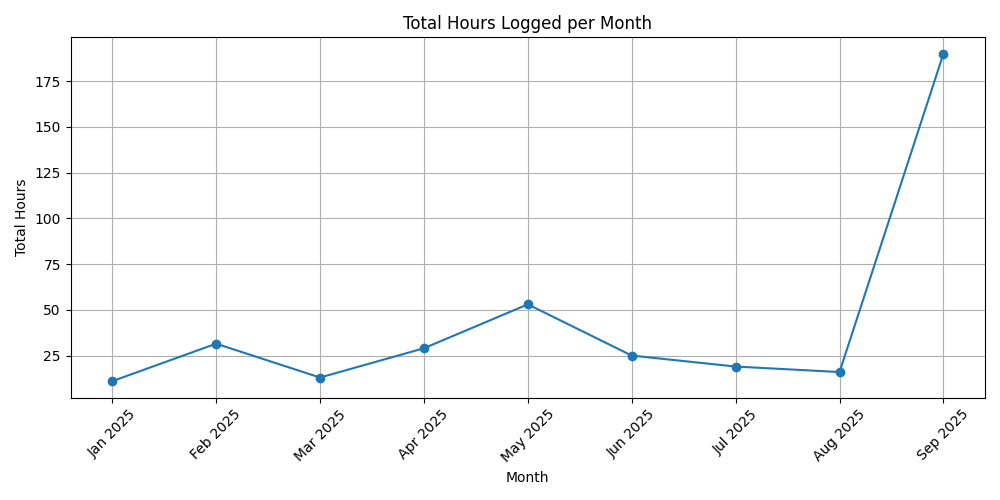
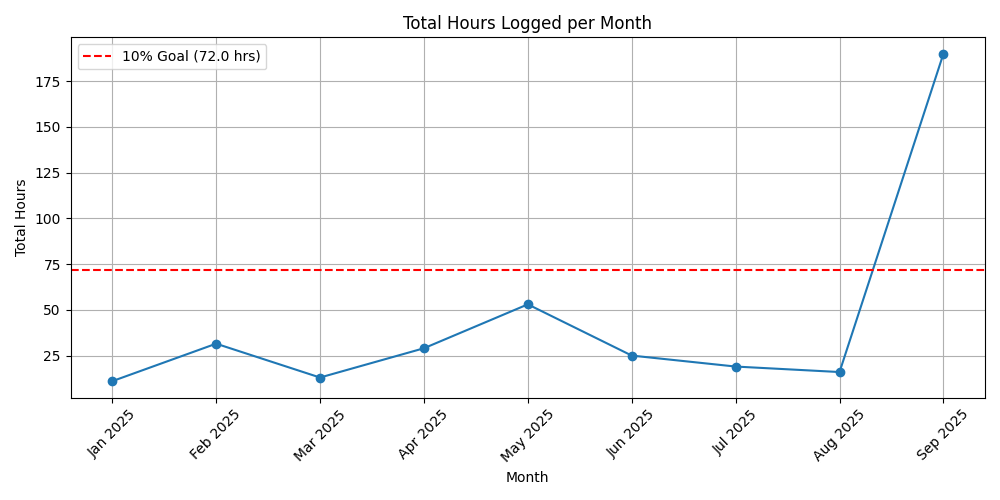
Added custom goal percentage
A new feature has been added to add a percentage usage goal to the total weekly and monthly graphs. If set to None, no line will be drawn.

Changed region(s): [[0.124, 0.09, 0.279, 0.15]]

diff --git a/prayer_analytics_lib.py b/prayer_analytics_lib.py
@@ -118,7 +118,7 @@ def calculate_dashboard_metrics(df, df_monthly_total):
     # --- RECENTLY ---
     today_ts = pd.Timestamp.now().normalize()
     
-    # 7-Day Periods (No Change)
+    # 7-Day Periods
     last_7_days_start = today_ts - timedelta(days=7)
     prev_7_days_start = today_ts - timedelta(days=14)
     
@@ -134,7 +134,7 @@ def calculate_dashboard_metrics(df, df_monthly_total):
     pct_last_7 = (hours_last_7 / total_possible_hours_7) * 100 if total_possible_hours_7 > 0 else 0
     pct_prev_7 = (hours_prev_7 / total_possible_hours_7) * 100 if total_possible_hours_7 > 0 else 0
 
-    # Monthly Periods: Now changed to 28-Day Periods (4 Weeks)
+    # 28-Day Periods (4 Weeks)
     last_28_days_start = today_ts - timedelta(days=28)
     prev_28_days_start = today_ts - timedelta(days=56)
     
@@ -362,8 +362,8 @@ def plot_binary_hourly_distribution(df, outdir):
     plt.savefig(os.path.join(outdir, "hourly_users.png"))
     plt.close()
 
-def plot_weekly_total_hours(df, outdir):
-    """Creates a line graph of the weekly total hours."""
+def plot_weekly_total_hours(df, outdir, goal_percentage):
+    """Creates a line graph of the weekly total hours with a dynamic goal line (or no line if goal_percentage is None)."""
     df_weekly_total = df.groupby(pd.Grouper(key="start_time", freq="W"))["duration"].sum().reset_index()
     
     plt.figure(figsize=(10, 5))
@@ -374,6 +374,15 @@ def plot_weekly_total_hours(df, outdir):
     plt.grid(True)
     
     ax = plt.gca()
+
+    # --- Conditional Goal Line Logic ---
+    if goal_percentage is not None and isinstance(goal_percentage, (int, float)):
+        # Calculate goal line: 7 days * 24 hours = 168 total hours
+        weekly_goal_hours = (7 * 24) * (goal_percentage / 100)
+        # Add a red dashed horizontal line at the goal percentage mark
+        ax.axhline(y=weekly_goal_hours, color='red', linestyle='--', label=f'{goal_percentage}% Goal ({weekly_goal_hours:.1f} hrs)')
+        ax.legend()
+    
     # Set the x-axis to show a label for every second week to improve readability
     ax.xaxis.set_major_locator(mdates.WeekdayLocator(interval=2))
     ax.xaxis.set_major_formatter(mdates.DateFormatter('%b %d, %Y'))
@@ -383,8 +392,8 @@ def plot_weekly_total_hours(df, outdir):
     plt.savefig(os.path.join(outdir, "weekly_total_hours.png"))
     plt.close()
 
-def plot_monthly_total_hours(df_monthly_total, outdir):
-    """Creates a line graph of the monthly total hours."""
+def plot_monthly_total_hours(df_monthly_total, outdir, goal_percentage):
+    """Creates a line graph of the monthly total hours with a dynamic goal line (or no line if goal_percentage is None)."""
     df_monthly_total = df_monthly_total.reset_index()
     
     # Corrected: Use 'start_time' column for formatting the month
@@ -397,6 +406,17 @@ def plot_monthly_total_hours(df_monthly_total, outdir):
     plt.ylabel("Total Hours")
     plt.xticks(rotation=45)
     plt.grid(True)
+    
+    ax = plt.gca()
+
+    # --- Conditional Goal Line Logic ---
+    if goal_percentage is not None and isinstance(goal_percentage, (int, float)):
+        # Calculate goal line: Using standard 30 days * 24 hours = 720 total hours
+        monthly_goal_hours = (30 * 24) * (goal_percentage / 100)
+        # Add a red dashed horizontal line at the goal percentage mark
+        ax.axhline(y=monthly_goal_hours, color='red', linestyle='--', label=f'{goal_percentage}% Goal ({monthly_goal_hours:.1f} hrs)')
+        ax.legend()
+
     plt.tight_layout()
     plt.savefig(os.path.join(outdir, "monthly_total_hours.png"))
     plt.close()
@@ -421,12 +441,13 @@ def plot_avg_hours_distribution(user_summary, outdir):
     plt.savefig(os.path.join(outdir, "avg_hours_distribution.png"))
     plt.close()
 
-def run_analysis(input_files, outdir, start_filter=None, end_filter=None):
+def run_analysis(input_files, outdir, start_filter=None, end_filter=None, goal_percentage=10):
     """
     Orchestrates the entire analysis process.
     
     :param start_filter: Optional. A string representing the start date (e.g., "2024-01-01") or a year (e.g., "2024").
     :param end_filter: Optional. A string representing the end date (e.g., "2024-12-31") or a year (e.g., "2024").
+    :param goal_percentage: The target percentage for weekly/monthly hours for goal lines on charts. Pass None to disable the line.
     """
     
     # ----------------------------------------------------
@@ -553,8 +574,10 @@ def run_analysis(input_files, outdir, start_filter=None, end_filter=None):
     export_weekly_likelihood_metrics(df, outdir)
     plot_hourly_distribution(df, outdir)
     plot_binary_hourly_distribution(df, outdir)
-    plot_weekly_total_hours(df, outdir)
-    plot_monthly_total_hours(df_monthly_total, outdir)
+    
+    # Call plotting functions with goal_percentage which can now be None
+    plot_weekly_total_hours(df, outdir, goal_percentage)
+    plot_monthly_total_hours(df_monthly_total, outdir, goal_percentage)
     plot_avg_hours_distribution(user_summary, outdir)
     
     # print(f"All dashboard graphs and files have been saved to the '{outdir}' folder.")

diff --git a/run_analytics_gwop.py b/run_analytics_gwop.py
@@ -1,4 +1,13 @@
 import prayer_analytics_lib as pal
+import sys
+
+# Ensure pandas is available before running
+try:
+    import pandas as pd
+except ImportError:
+    print("Error: pandas and/or matplotlib libraries not found.")
+    print("Please install them using: pip install pandas matplotlib")
+    sys.exit(1)
 
 # ----------------------------------------------------------------------
 # ⚠ EDIT THESE PARAMETERS TO SET THE DATE RANGE FOR YOUR ANALYSIS ⚠
@@ -16,28 +25,46 @@ START_FILTER = None
 # - To filter by a specific date: "2024-12-31"
 END_FILTER = None
 
+# The percentage goal for the hours filled (e.g., 10 for 10%)
+# Setting this to None will result in no goal line being drawn on the charts.
+GOAL_PERCENTAGE = 10
+
 # ----------------------------------------------------------------------
 # DO NOT EDIT BELOW THIS LINE
 # ----------------------------------------------------------------------
 
 # The file(s) containing historical booking data.
+# E.g., ["initial.csv", "current.csv"]
 INPUT_FILES = ["initial.csv", "current.csv", "gwop.csv"]
 
 # The base name for the output directory.
-# A date range suffix will be automatically appended to the folder name
-# to prevent overwriting (e.g., "analysis_20240101_to_20241231").
+# A date range suffix will be automatically appended (e.g., "analysis_20240101_to_20241231").
 OUTPUT_DIR = "gwop_out"
 
 if __name__ == "__main__":
+    print("--- Prayer Analysis Script ---")
+    
+    if START_FILTER or END_FILTER:
+        start_display = START_FILTER if START_FILTER else "Earliest Data"
+        end_display = END_FILTER if END_FILTER else "Today"
+        print(f"Filter set: {start_display} to {end_display}")
+    else:
+        print("Filter set: Using all available data.")
+        
+    if GOAL_PERCENTAGE is None:
+        print("Goal Percentage set to: None (No goal line will be drawn)")
+    else:
+        print(f"Goal Percentage set to: {GOAL_PERCENTAGE}%")
+        
     try:
-        print(f"Starting analysis with Input Files: {INPUT_FILES}")
         pal.run_analysis(
             input_files=INPUT_FILES, 
             outdir=OUTPUT_DIR, 
             start_filter=START_FILTER, 
-            end_filter=END_FILTER
+            end_filter=END_FILTER,
+            goal_percentage=GOAL_PERCENTAGE
         )
-        print("\nAnalysis complete. Check the output directory for results.")
+        print("\n✅ Analysis complete. Check the output directory for results.")
     except Exception as e:
-        print(f"\n--- FATAL ERROR --- \nAn error occurred during analysis: {e}")
+        print(f"\n--- ❌ FATAL ERROR --- \nAn error occurred during analysis: {e}")
         print("Please check your input files and date filters in run_analytics.py.")

diff --git a/run_analytics.py b/run_analytics.py
@@ -1,4 +1,13 @@
 import prayer_analytics_lib as pal
+import sys
+
+# Ensure pandas is available before running
+try:
+    import pandas as pd
+except ImportError:
+    print("Error: pandas and/or matplotlib libraries not found.")
+    print("Please install them using: pip install pandas matplotlib")
+    sys.exit(1)
 
 # ----------------------------------------------------------------------
 # ⚠ EDIT THESE PARAMETERS TO SET THE DATE RANGE FOR YOUR ANALYSIS ⚠
@@ -16,28 +25,46 @@ START_FILTER = None
 # - To filter by a specific date: "2024-12-31"
 END_FILTER = None
 
+# The percentage goal for the hours filled (e.g., 10 for 10%)
+# Setting this to None will result in no goal line being drawn on the charts.
+GOAL_PERCENTAGE = 10
+
 # ----------------------------------------------------------------------
 # DO NOT EDIT BELOW THIS LINE
 # ----------------------------------------------------------------------
 
 # The file(s) containing historical booking data.
+# E.g., ["initial.csv", "current.csv"]
 INPUT_FILES = ["initial.csv", "current.csv"]
 
 # The base name for the output directory.
-# A date range suffix will be automatically appended to the folder name
-# to prevent overwriting (e.g., "analysis_20240101_to_20241231").
+# A date range suffix will be automatically appended (e.g., "analysis_20240101_to_20241231").
 OUTPUT_DIR = "out"
 
 if __name__ == "__main__":
+    print("--- Prayer Analysis Script ---")
+    
+    if START_FILTER or END_FILTER:
+        start_display = START_FILTER if START_FILTER else "Earliest Data"
+        end_display = END_FILTER if END_FILTER else "Today"
+        print(f"Filter set: {start_display} to {end_display}")
+    else:
+        print("Filter set: Using all available data.")
+        
+    if GOAL_PERCENTAGE is None:
+        print("Goal Percentage set to: None (No goal line will be drawn)")
+    else:
+        print(f"Goal Percentage set to: {GOAL_PERCENTAGE}%")
+        
     try:
-        print(f"Starting analysis with Input Files: {INPUT_FILES}")
         pal.run_analysis(
             input_files=INPUT_FILES, 
             outdir=OUTPUT_DIR, 
             start_filter=START_FILTER, 
-            end_filter=END_FILTER
+            end_filter=END_FILTER,
+            goal_percentage=GOAL_PERCENTAGE
         )
-        print("\nAnalysis complete. Check the output directory for results.")
+        print("\n✅ Analysis complete. Check the output directory for results.")
     except Exception as e:
-        print(f"\n--- FATAL ERROR --- \nAn error occurred during analysis: {e}")
+        print(f"\n--- ❌ FATAL ERROR --- \nAn error occurred during analysis: {e}")
         print("Please check your input files and date filters in run_analytics.py.")
